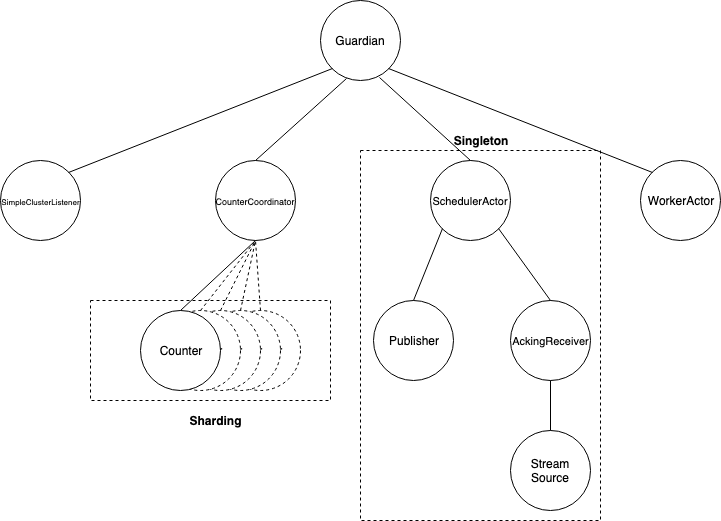
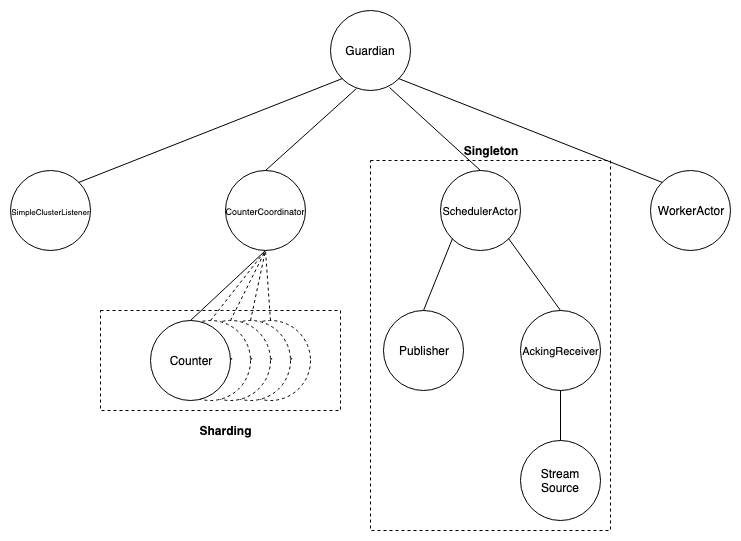
Add more diagrams

diff --git a/README.md b/README.md
@@ -6,7 +6,12 @@ This is a project to play with different akka features, but in particular in cre
 * Sharding
 * Streams
 
-In the following graph you can see the actor hierarchy:
+### Diagrams
 
+* **Actor Hierarchy**:
 
 ![Actor Hierarchy](./docs/Actor_Hierarchy.png)
+
+* **Actor Message Communication**:
+
+![Actor Message Communication](./docs/Actor_Message_Communication.png)
